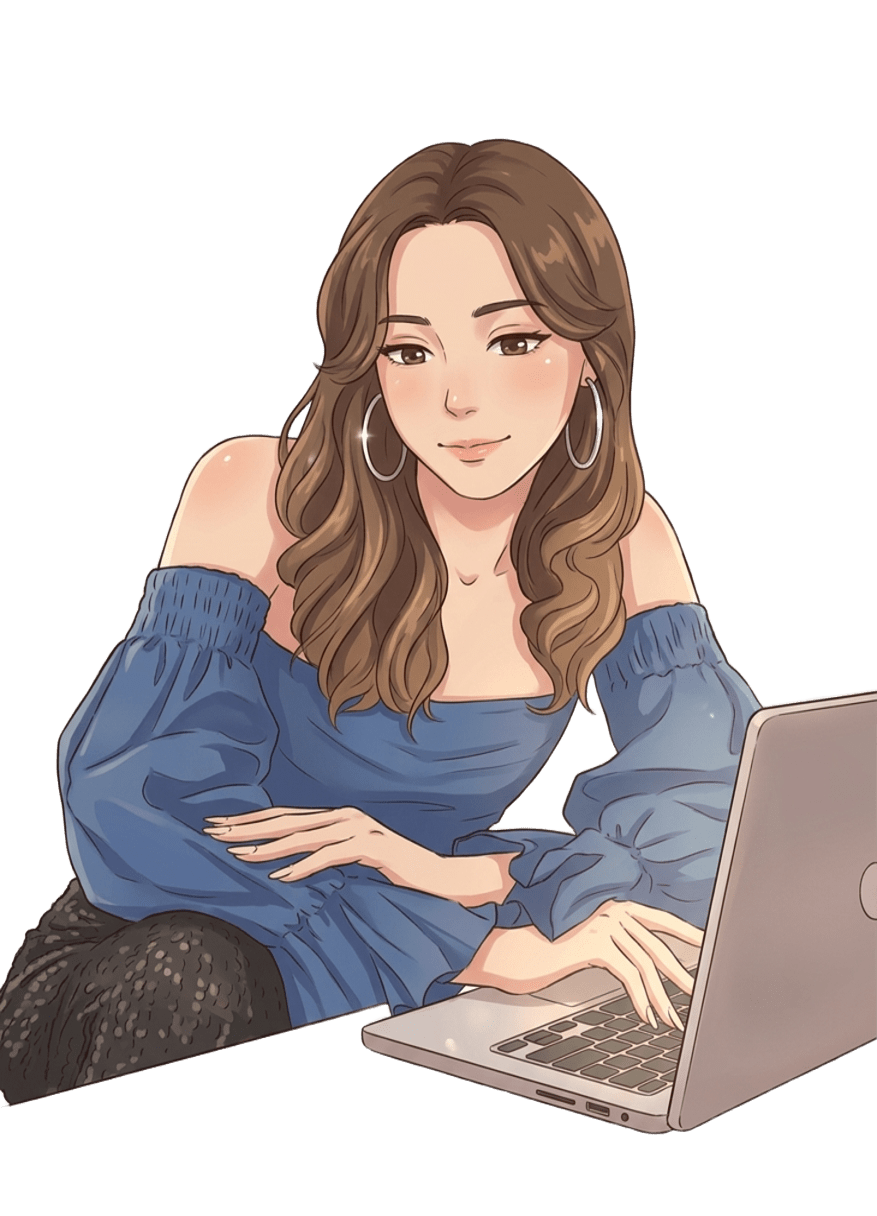
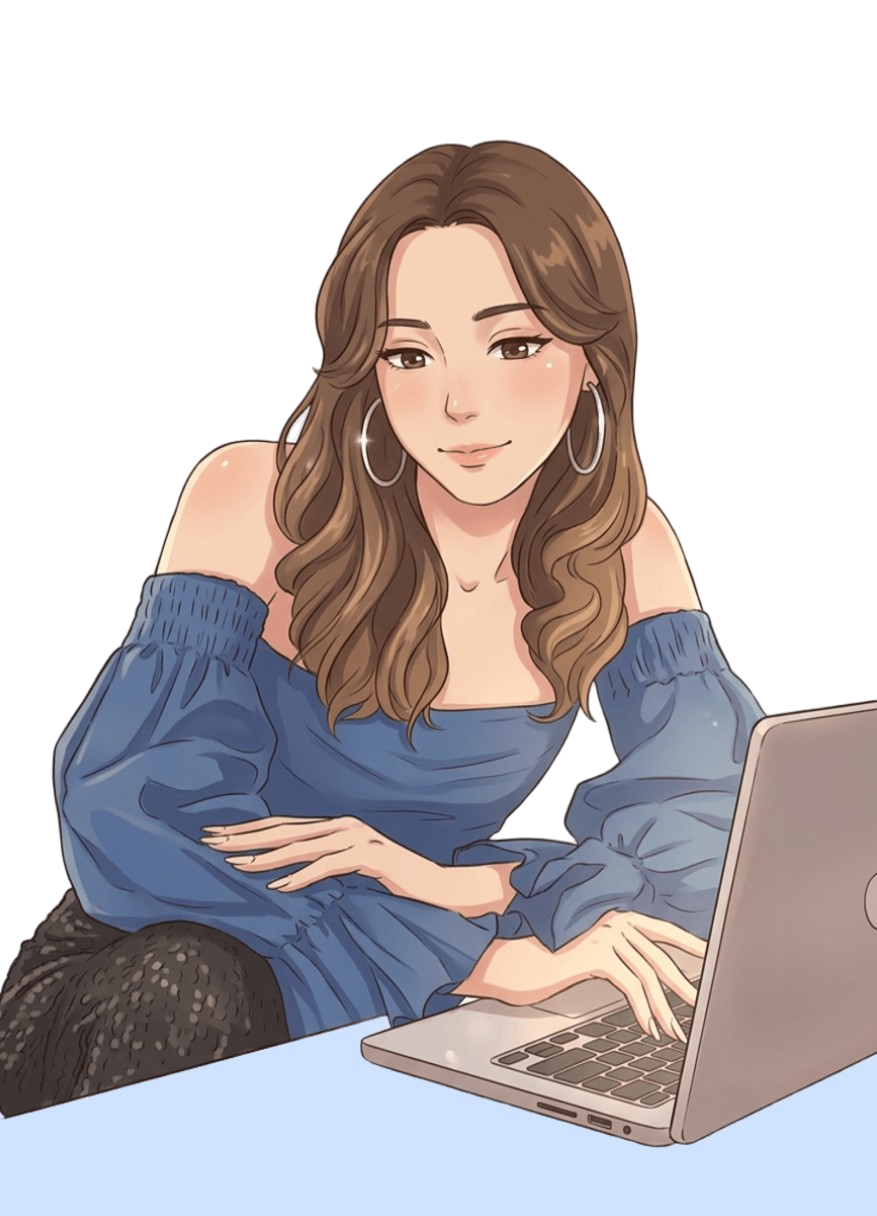
ajustando secao hero

diff --git a/src/style.css b/src/style.css
@@ -9,12 +9,13 @@ header {
     display: flex;
     flex-wrap: wrap;
     justify-content: space-between;
-    padding: 20px 20px;
+    padding: 15px 40px;
     margin-bottom: 60px;
     gap: 20px;
     text-align: center;
     color: var(--bg-light);
     background-color: var(--text-color);
+    backdrop-filter: blur(10px);
 }
 
 header .cabecalho {
@@ -28,31 +29,39 @@ header .cabecalho .logo {
     font-size: 20px;
 }
 
-header .section {
+header .cabecalho .section {
     display: flex;
     justify-content: flex-end;
     align-items: center;
     font-weight: 700;
     font-size: 18px;
-    gap: 60px;
+    gap: 90px;
 }
 
+header a{
+    transition: 0.3s;
+}
 
-main .apresentacao {
+header a:hover{
+    color: #4da3ff;
+}
+
+main .hero {
     display: flex;
     justify-content: space-evenly;
     align-items: center;
 }
 
-main .apresentacao .foto {
+main .hero .foto {
     margin-left: 5%;
     width: 25%;
     border: 8px solid white;
     border-radius: 2px;
+    border-color: #cfe3ff;
     transition: 1.0s;
 }
 
-main .apresentacao .about {
+main .hero .about {
     display: flex;
     flex-direction: column;
     gap: 50px;
@@ -60,12 +69,20 @@ main .apresentacao .about {
     transition: 1.0s;
 }
 
-main .apresentacao .about h1 {
-    font-size: 60px;
+main .hero .about h1 {
+    font-size: 70px;
+    line-height: 1.2;
+    text-shadow: 0 4px 15px rgba(0, 0, 0, 0.4);
     width: 70%;
 }
 
-main .apresentacao .about p {
+main .hero .about p {
+    margin-top: 15px;
     font-size: 30px;
     width: 70%;
+}
+
+main .hero .about .linguagenspng{
+    transition: 0.3s;
+    width: 30%;
 }

diff --git a/index.html b/index.html
@@ -19,13 +19,13 @@
 
         <div class="cabecalho">
             <div class="logo">
-                <h1>Rayssa Viana</h1>
+                <h1><a href="https://www.linkedin.com/in/rayssa-vianar/" target="_blank">Rayssa Viana</a></h1>
             </div>
 
             <ul class="section">
-                <li>Sobre</li>
-                <li>Projetos</li>
-                <li>Contatos</li>
+                <li><a href="">Sobre</a></li>
+                <li><a href="">Projetos</a></li>
+                <li><a href="">Contatos</a></li>
             </ul>
         </div>
 
@@ -33,13 +33,15 @@
 
     <main>
 
-        <section class="apresentacao">
+        <section class="hero">
             <img class="foto" src="src/img/foto.png" alt="imagem gerada por ia ilustrando programadora">
 
             <div class="about">
                 <h1>Desenvolvedora Front-end em evolução constante</h1>
                 <p>Transformando ideias em interfaces reais com HTML, CSS e JavaScript, sempre aprendendo e evoluindo na
-                    prática.</p>
+                    prática.
+                </p>
+                <img src="src/img/linguagens.png" alt="imagem do simbolo html5 JavaScript css3" class="linguagenspng">
             </div>
         </section>
 
